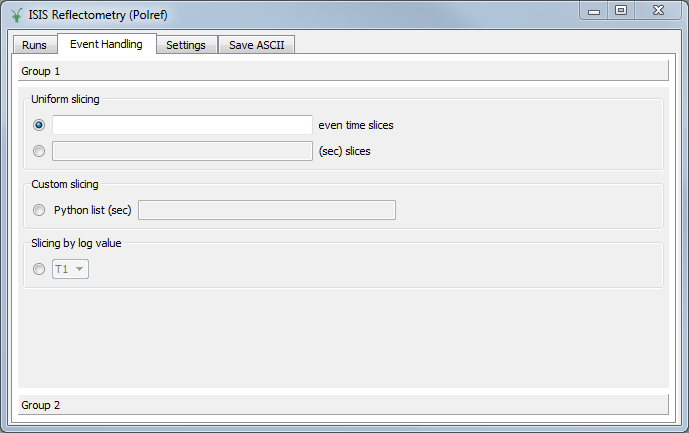
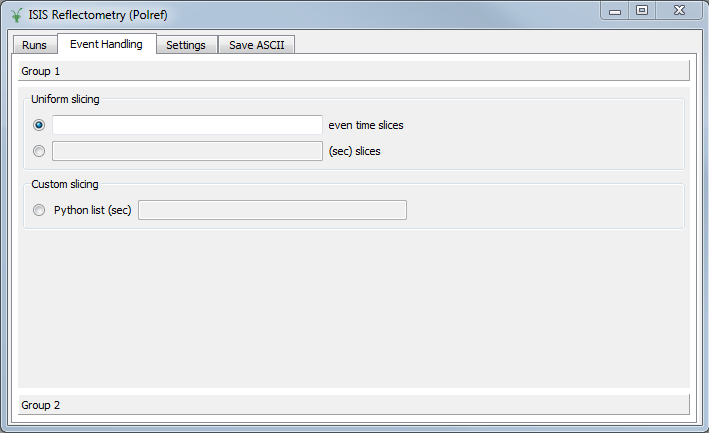
Re #18500 Added most of the suggested changes

diff --git a/MantidQt/CustomInterfaces/src/Reflectometry/QtReflEventView.cpp b/MantidQt/CustomInterfaces/src/Reflectometry/QtReflEventView.cpp
@@ -17,7 +17,6 @@ QtReflEventView::QtReflEventView(QWidget *parent) {
   m_buttonList.push_back(m_ui.uniformEvenButton);
   m_buttonList.push_back(m_ui.uniformButton);
   m_buttonList.push_back(m_ui.customButton);
-  m_buttonList.push_back(m_ui.logValueButton);
 
   // Whenever one of the slicing option buttons is selected, their corresponding
   // entry is enabled, otherwise they remain disabled.
@@ -55,14 +54,12 @@ std::string QtReflEventView::getTimeSlicingValues() const {
 
   std::string values;
 
-  if (m_sliceType == m_slicingTypes[0])
+  if (m_sliceType == "UniformEven")
     values = m_ui.uniformEvenEdit->text().toStdString();
-  else if (m_sliceType == m_slicingTypes[1])
+  else if (m_sliceType == "Uniform")
     values = m_ui.uniformEdit->text().toStdString();
-  else if (m_sliceType == m_slicingTypes[2])
+  else if (m_sliceType == "Custom")
     values = m_ui.customEdit->text().toStdString();
-  else if (m_sliceType == m_slicingTypes[3])
-    values = m_ui.logValueComboBox->currentText().toStdString();
 
   return values;
 }
@@ -78,10 +75,13 @@ void QtReflEventView::toggleSlicingOptions() const {
 
   const auto checkedButton = m_ui.slicingOptionsButtonGroup->checkedButton();
 
+  const std::vector<std::string> slicingTypes = {"UniformEven", "Uniform",
+                                                 "Custom"};
+
   std::vector<bool> entriesEnabled(m_buttonList.size(), false);
   for (size_t i = 0; i < m_buttonList.size(); i++) {
     if (m_buttonList[i] == checkedButton) {
-      m_sliceType = m_slicingTypes[i];
+      m_sliceType = slicingTypes[i];
       entriesEnabled[i] = true;
       break;
     }
@@ -90,7 +90,6 @@ void QtReflEventView::toggleSlicingOptions() const {
   m_ui.uniformEvenEdit->setEnabled(entriesEnabled[0]);
   m_ui.uniformEdit->setEnabled(entriesEnabled[1]);
   m_ui.customEdit->setEnabled(entriesEnabled[2]);
-  m_ui.logValueComboBox->setEnabled(entriesEnabled[3]);
 }
 
 } // namespace CustomInterfaces

diff --git a/MantidQt/CustomInterfaces/src/Reflectometry/ReflDataProcessorPresenter.cpp b/MantidQt/CustomInterfaces/src/Reflectometry/ReflDataProcessorPresenter.cpp
@@ -190,7 +190,7 @@ bool ReflDataProcessorPresenter::processGroupAsEventWS(
     auto data = row.second;               // Vector containing data for this row
     std::string runNo = row.second.at(0); // The run number
 
-    if (timeSlicingType == "UniformEven" || timeSlicingType == "Uniform") {
+    if (timeSlicingType != "Custom") {
       const std::string runName = "TOF_" + runNo;
       parseUniform(timeSlicingValues, timeSlicingType, runName, startTimes,
                    stopTimes);
@@ -293,6 +293,12 @@ void ReflDataProcessorPresenter::parseUniform(const std::string &timeSlicing,
   IEventWorkspace_sptr mws;
   if (AnalysisDataService::Instance().doesExist(wsName)) {
     mws = AnalysisDataService::Instance().retrieveWS<IEventWorkspace>(wsName);
+    if (!mws) {
+      m_mainPresenter->giveUserCritical("Workspace to slice " + wsName +
+                                            " is not an event workspace!",
+                                        "Time slicing error");
+      return;
+    }
   } else {
     m_mainPresenter->giveUserCritical("Workspace to slice not found: " + wsName,
                                       "Time slicing error");

diff --git a/MantidQt/CustomInterfaces/test/ReflEventPresenterTest.h b/MantidQt/CustomInterfaces/test/ReflEventPresenterTest.h
@@ -30,9 +30,7 @@ public:
     MockEventView mockView;
     ReflEventPresenter presenter(&mockView);
 
-    EXPECT_CALL(mockView, getTimeSlicingValues())
-        .Times(Exactly(1))
-        .WillOnce(Return("5"));
+    EXPECT_CALL(mockView, getTimeSlicingValues()).Times(Exactly(1));
     presenter.getTimeSlicingValues();
 
     TS_ASSERT(Mock::VerifyAndClearExpectations(&mockView));
@@ -42,9 +40,7 @@ public:
     MockEventView mockView;
     ReflEventPresenter presenter(&mockView);
 
-    EXPECT_CALL(mockView, getTimeSlicingType())
-        .Times(Exactly(1))
-        .WillOnce(Return("UniformEven"));
+    EXPECT_CALL(mockView, getTimeSlicingType()).Times(Exactly(1));
     presenter.getTimeSlicingType();
 
     TS_ASSERT(Mock::VerifyAndClearExpectations(&mockView));

diff --git a/MantidQt/CustomInterfaces/inc/MantidQtCustomInterfaces/Reflectometry/QtReflEventView.h b/MantidQt/CustomInterfaces/inc/MantidQtCustomInterfaces/Reflectometry/QtReflEventView.h
@@ -65,9 +65,6 @@ private:
 
   /// Current slice type
   mutable std::string m_sliceType;
-  /// Available slicing types
-  std::vector<std::string> m_slicingTypes = {"UniformEven", "Uniform", "Custom",
-                                             "LogValue"};
 
   /// List of radio buttons
   std::vector<QRadioButton *> m_buttonList;

diff --git a/docs/source/interfaces/ISIS_Reflectometry.rst b/docs/source/interfaces/ISIS_Reflectometry.rst
@@ -386,21 +386,21 @@ Event Handling tab
 .. figure:: /images/ISISReflectometryPolref_event_handling_tab.png
    :alt: Showing view of the settings tab.
 
-The *Event Handling* tab can be used to analyze event workspaces. It contains four text boxes for
-specifying uniform even, uniform, custom and log value slicing respectively. Only one of these may
-be selected at any time. If the text box for the selected slicing method is empty no event analysis
-will be performed, runs will be loaded using :ref:`LoadISISNexus <algm-LoadISISNexus>` and analyzed
-as histogram workspaces. When this text box is not empty, runs will be loaded using
-:ref:`LoadEventNexus <algm-LoadEventNexus>` and the interface will try to parse the user input to
-obtain a set of start times and stop times. These define different time slices that will bepassed
-on to :ref:`FilterByTime <algm-FilterByTime>`. Each time slice will be normalized by the total
-proton charge and reduced as described in the previous section. Note that, if any of the runs in a
-group could not be loaded as an event workspace, the interface will load the runs within that group
-as histogram workspaces and no event analysis will be performed for that group. A warning message
-will be shown when the reduction is complete indicating that some groups could not be processed as
-event data.
+The *Event Handling* tab can be used to analyze event workspaces. It contains three text boxes for
+specifying uniform even, uniform and custom slicing respectively. Each of these slicing options are
+exclusive, no more than one can be applied. If the text box for the selected slicing method is empty
+no event analysis will be performed, runs will be loaded using
+:ref:`LoadISISNexus <algm-LoadISISNexus>` and analyzed as histogram workspaces. When this text box
+is not empty, runs will be loaded using :ref:`LoadEventNexus <algm-LoadEventNexus>` and the
+interface will try to parse the user input to obtain a set of start times and stop times. These
+define different time slices that will bepassed on to :ref:`FilterByTime <algm-FilterByTime>`. Each
+time slice will be normalized by the total proton charge and reduced as described in the previous
+section. Note that, if any of the runs in a group could not be loaded as an event workspace, the
+interface will load the runs within that group as histogram workspaces and no event analysis will
+be performed for that group. A warning message will be shown when the reduction is complete
+indicating that some groups could not be processed as event data.
 
-The four slicing options are described in more detail below:
+The three slicing options are described in more detail below:
 
 - **Uniform Even** - The interface obtains the start and end times of the run and divides it into
   a specified number of evenly-sized slices. For example given a run of duration 100 seconds,
@@ -423,7 +423,6 @@ The four slicing options are described in more detail below:
     slices, the first one starting at ``100`` seconds after the start of the run and ending at
     ``200`` seconds after the start of the run, and the second one starting at ``200`` seconds
     and ending at ``300`` seconds.
-- **Log Value** - Not implemented yet, selecting this does not do anything for now.
 
 Workspaces will be named according to the index of the slice, e.g ``IvsQ_13460_slice_0``, ``IvsQ_13460_slice_1``, etc.
 

diff --git a/docs/source/release/v3.10.0/reflectometry.rst b/docs/source/release/v3.10.0/reflectometry.rst
@@ -15,7 +15,8 @@ Reflectometry Reduction Interface
 ISIS Reflectometry (Polref)
 ###########################
 
-- Added three more time slicing options in the 'Event Handling' tab for analysing event data - Uniform Even, Uniform and Log Value. Only the first two are functional however for now.
+- Added two more time slicing options in the 'Event Handling' tab for analysing event data - Uniform Even and Uniform slicing.
+- For custom slicing (and new slicing options), workspace slices are now identified by an index (e.g. ws_slice_0) instead of a start/stop time.
 
 ISIS Reflectometry
 ##################
